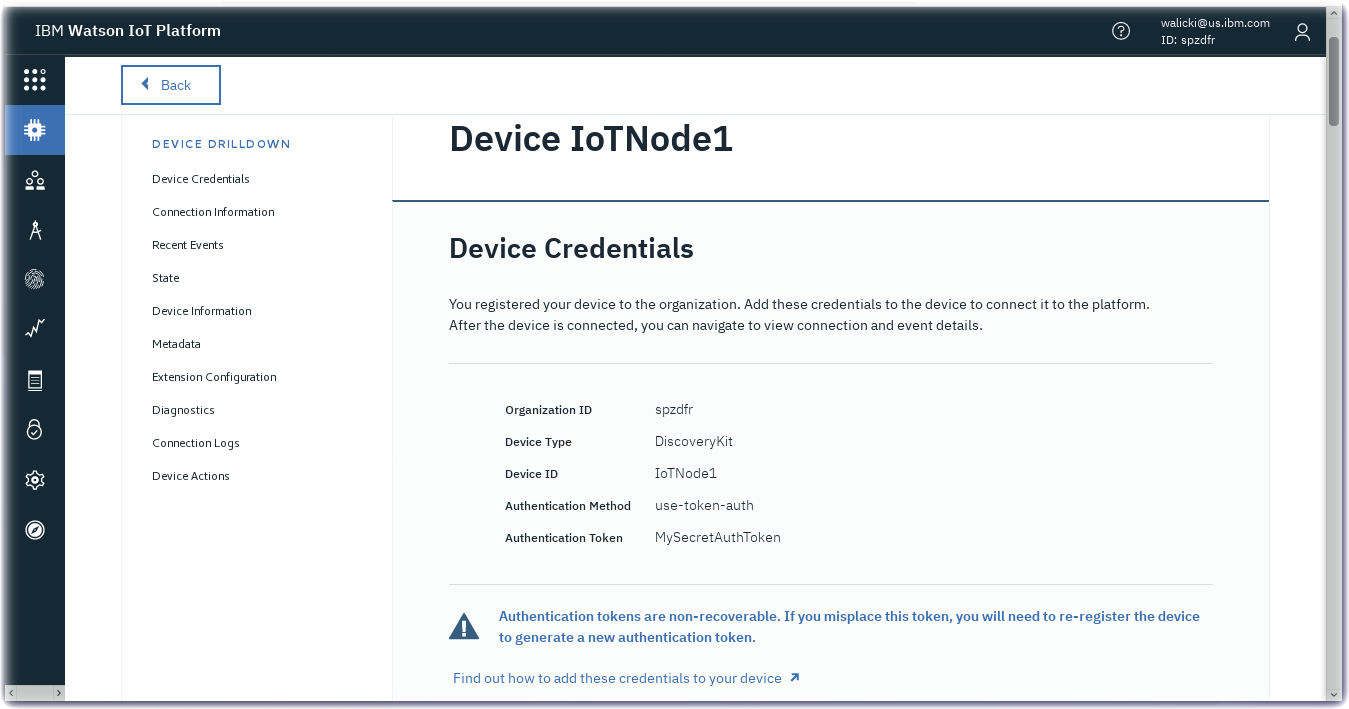
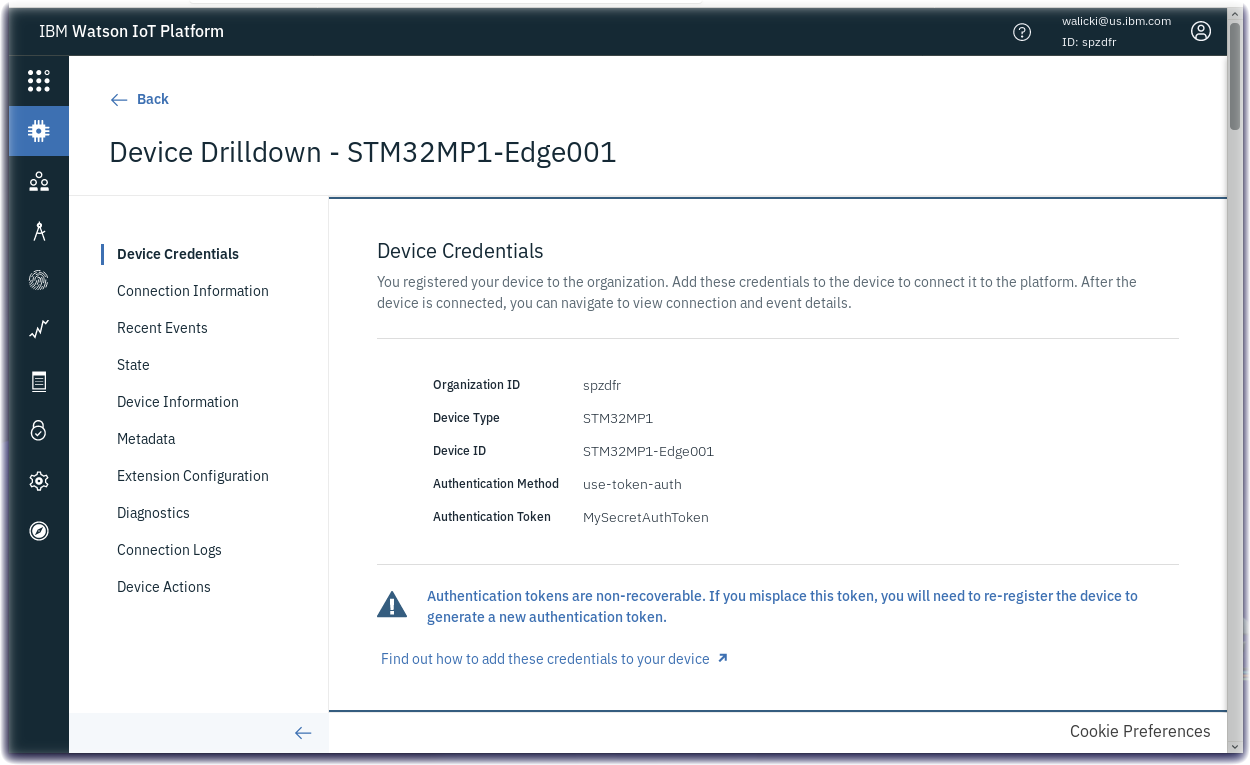
Watson IoT Device Create

diff --git a/part2/DISCOVERYDEVICE.md b/part2/DISCOVERYDEVICE.md
@@ -15,7 +15,7 @@ This Lab will show you how to register your ST Microelectronics STM32MP1 Discove
 
 Before you can connect a device to the Watson IoT Platform you need to define how the device will connect to the platform and also register the device to generate an access token for the device.  This will be used to verify the device identity.
 
-You need to decide how you want to group devices, by function, by hardware type, etc.  Each device registered on the platform must be registered against a device type.  There are no restrictions about how devices are grouped and the device types, for this workshop we will create a device type representing the ST Microelectronics Discovery Kit IoT Node devices.
+You need to decide how you want to group devices, by function, by hardware type, etc.  Each device registered on the platform must be registered against a device type.  There are no restrictions about how devices are grouped and the device types, for this workshop we will create a device type representing the ST Microelectronics Discovery Kit devices.
 
 ### Step 1 - Add a new device type for Discovery Kit device
 
@@ -31,16 +31,16 @@ You need to decide how you want to group devices, by function, by hardware type,
 - Press the **Next** button (5)
 ![Create DiscoveryKit Device](/screenshots/IoTP-DeviceType-Create.png)
 
-- Press the **Done** button (6)
+- Press the **Finish** button (6)
 ![Create DiscoveryKit Device](/screenshots/IoTP-DeviceType-Done.png)
 
-### Step 2 - Register a new DiscoveryKit device in the IoT Platform
+### Step 2 - Register a new STM32MP1 device in the IoT Platform
 
 You now have the opportunity to register a device.
 - Press **Register Devices** (7)
 ![Create DiscoveryKit Device](/screenshots/IoTP-DeviceRegister.png)
 
-- The DiscoveryKit device type should be pre-selected.  You now need to enter a unique device ID.  You can choose how you want to identify devices.  For the workshop, use a simple format, such as **STM32MP1-Edge001**. (8)
+- The STM32MP1 device type should be pre-selected.  You now need to enter a unique device ID.  You can choose how you want to identify devices.  For the workshop, use a simple format, such as **STM32MP1-Edge001**. (8)
 - Press **Next** button (9)
 ![Create DiscoveryKit Device](/screenshots/IoTP-DeviceName.png)
 
